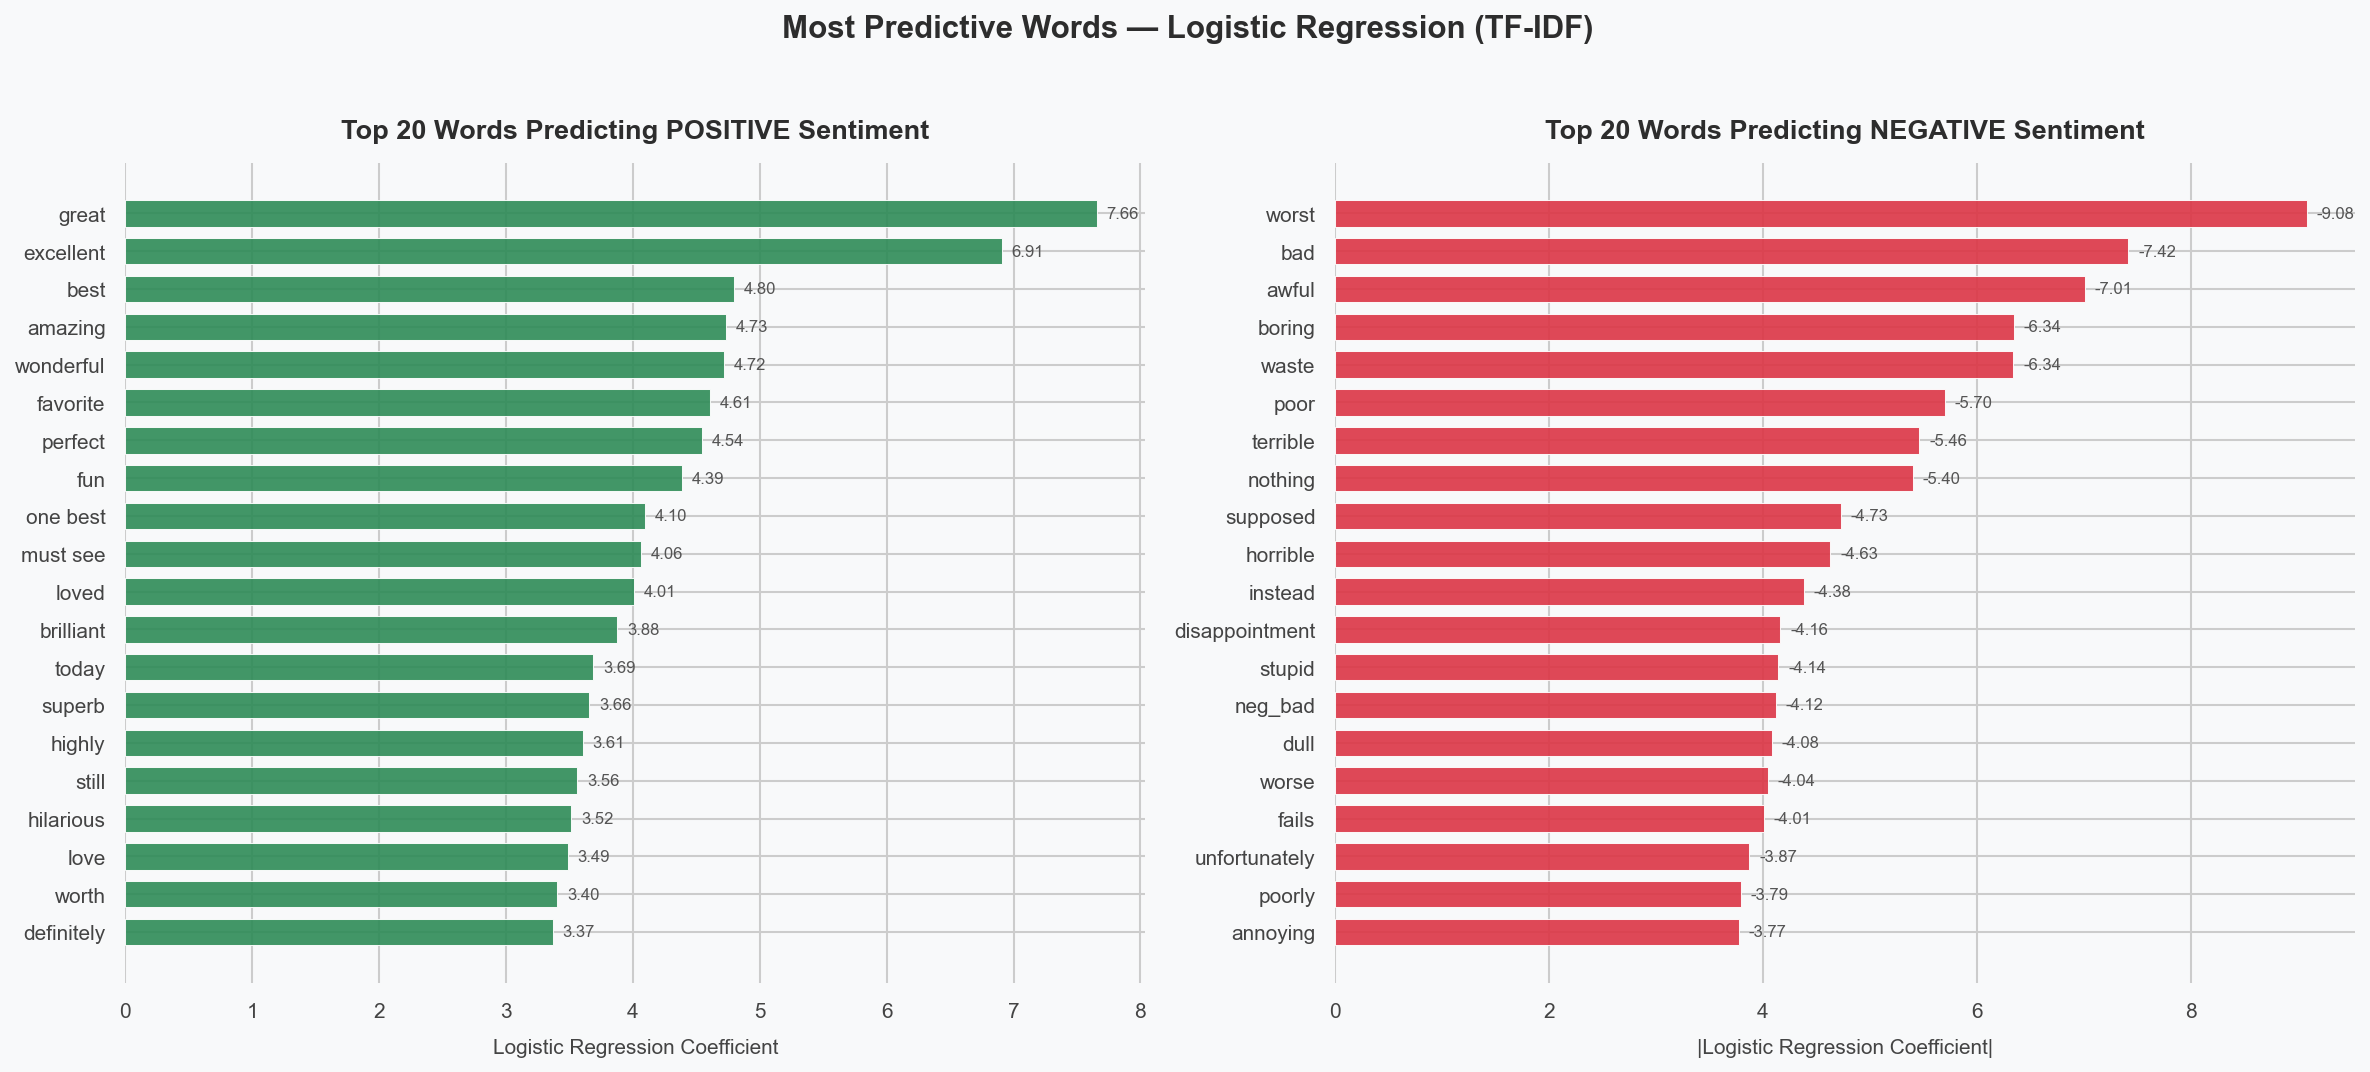
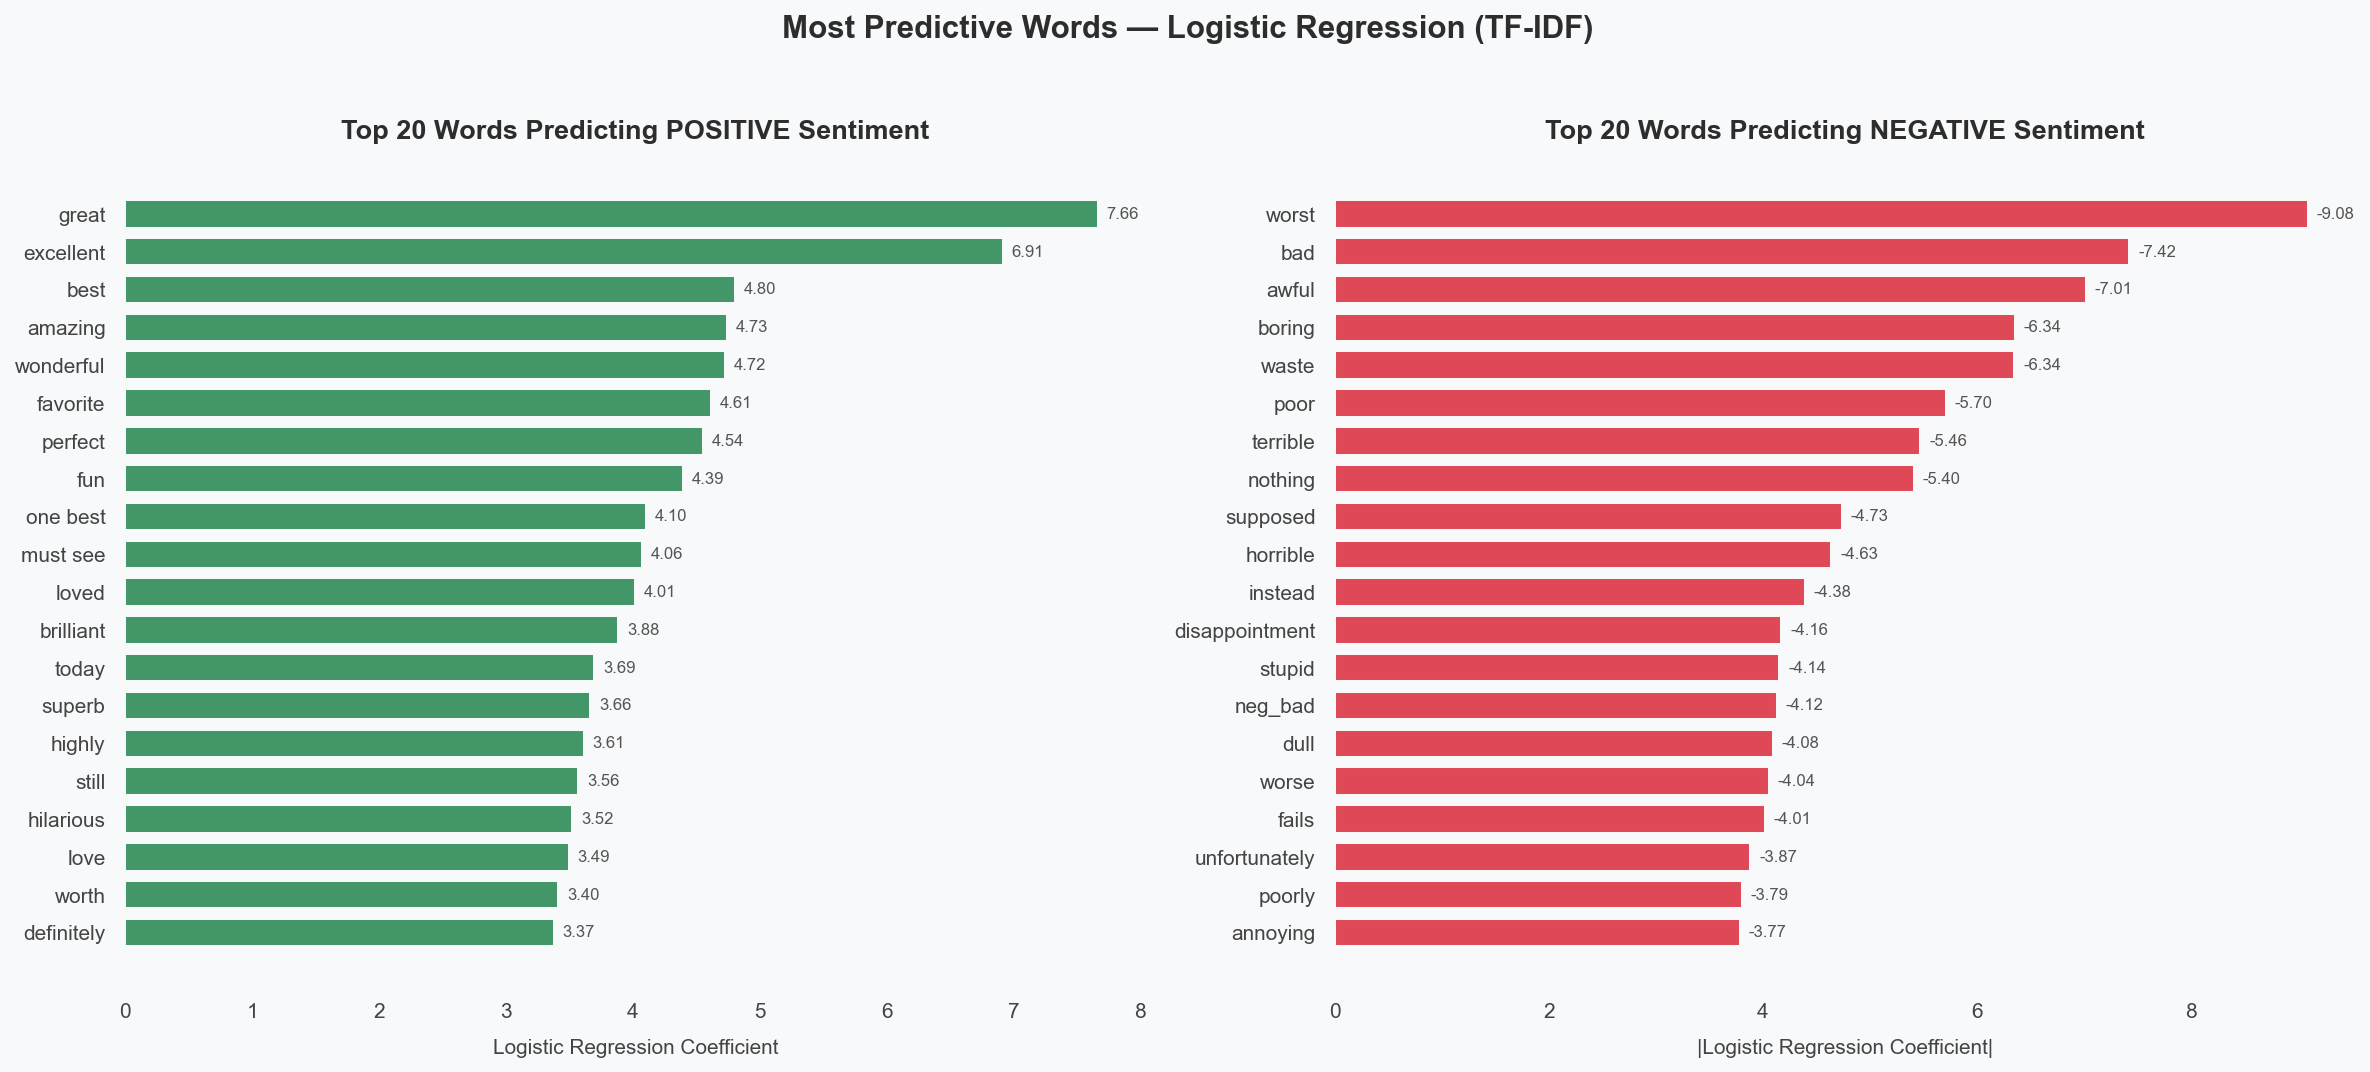
Update 04_modeling.py and regenerate outputs

diff --git a/scripts/04_modeling.py b/scripts/04_modeling.py
@@ -304,18 +304,15 @@ print("\n" + "=" * 60)
 print("  STEP 3 — VISUALIZATIONS")
 print("=" * 60)
 print("\n[1/4] Model comparison bar chart ...")
- 
 plot_df = results_df.copy()
 plot_df["label"] = plot_df.apply(
     lambda r: f"{r['model']}\n({r['vectorizer']})" if r["vectorizer"] != "—"
     else r["model"], axis=1,
 )
 plot_df = plot_df.sort_values("test_f1", ascending=True).reset_index(drop=True)
- 
 fig, ax = plt.subplots(figsize=(11, 6.5))
 fig.patch.set_facecolor(BG_COLOR)
 ax.set_facecolor(BG_COLOR)
- 
 colors = []
 for _, r in plot_df.iterrows():
     if r["vectorizer"] == "—":
@@ -324,13 +321,11 @@ for _, r in plot_df.iterrows():
         colors.append(COLOR_POS)        # green for winner
     else:
         colors.append(COLOR_NEUTRAL)    # blue for the rest
- 
 bars = ax.barh(plot_df["label"], plot_df["test_f1"],
                color=colors, alpha=0.9, edgecolor="white", linewidth=0.6, zorder=3)
 for bar, val in zip(bars, plot_df["test_f1"]):
     ax.text(val + 0.005, bar.get_y() + bar.get_height() / 2,
             f"{val:.3f}", va="center", ha="left", fontsize=10, color="#333333")
- 
 ax.set_title("Model Comparison — Test F1 Score",
              fontsize=15, fontweight="bold", color="#2D2D2D", pad=18)
 ax.set_xlabel("F1 Score (test set)", fontsize=12, color="#444444", labelpad=10)
@@ -338,8 +333,9 @@ ax.set_xlim(0, 1.05)
 ax.spines[["top", "right"]].set_visible(False)
 ax.spines[["left", "bottom"]].set_color("#CCCCCC")
 ax.tick_params(colors="#555555", labelsize=10)
-ax.grid(False)
- 
+ax.grid(False, which="both", axis="both")
+ax.xaxis.grid(False)
+ax.yaxis.grid(False)
 plt.tight_layout()
 out_path = FIGURES_DIR / "model_comparison_bars.png"
 plt.savefig(out_path, dpi=150, bbox_inches="tight")
@@ -438,31 +434,28 @@ print(f"   Saved: {out_path}")
 # 13. Visualization 4 — Top features (interpretability)
 # --------------------------------------------------------------------
 print("\n[4/4] Top features for Logistic Regression (interpretability) ...")
- 
+
 # Use Logistic Regression + its better vectorizer (chosen by test F1).
 lr_vec_name = model_best_vec["Logistic Regression"]
 lr_vec, lr_model = fitted_models[(lr_vec_name, "Logistic Regression")]
- 
 feature_names = np.array(lr_vec.get_feature_names_out())
 coefs = lr_model.coef_[0]
- 
 top_n = 20
 top_pos_idx = np.argsort(coefs)[-top_n:][::-1]
 top_neg_idx = np.argsort(coefs)[:top_n]
- 
 pos_words = feature_names[top_pos_idx]
 pos_coefs = coefs[top_pos_idx]
 neg_words = feature_names[top_neg_idx]
 neg_coefs = coefs[top_neg_idx]
- 
 fig, (ax1, ax2) = plt.subplots(1, 2, figsize=(16, 7))
 fig.patch.set_facecolor(BG_COLOR)
 for ax in (ax1, ax2):
     ax.set_facecolor(BG_COLOR)
     ax.spines[["top", "right", "left", "bottom"]].set_visible(False)
     ax.tick_params(axis="both", labelsize=10, colors="#444444")
-    ax.grid(False)
- 
+    ax.grid(False, which="both", axis="both")
+    ax.xaxis.grid(False)
+    ax.yaxis.grid(False)
 # Positive side
 bars1 = ax1.barh(pos_words, pos_coefs, color=COLOR_POS, alpha=0.9,
                  edgecolor="white", linewidth=0.5, height=0.7)
@@ -474,7 +467,6 @@ ax1.set_xlabel("Logistic Regression Coefficient",
 for bar, val in zip(bars1, pos_coefs):
     ax1.text(val + max(pos_coefs) * 0.01, bar.get_y() + bar.get_height() / 2,
              f"{val:.2f}", va="center", ha="left", fontsize=8, color="#555555")
- 
 # Negative side (plot absolute value so bars grow left-to-right visually)
 neg_abs = np.abs(neg_coefs)
 bars2 = ax2.barh(neg_words, neg_abs, color=COLOR_NEG, alpha=0.9,
@@ -487,7 +479,6 @@ ax2.set_xlabel("|Logistic Regression Coefficient|",
 for bar, val, raw in zip(bars2, neg_abs, neg_coefs):
     ax2.text(val + max(neg_abs) * 0.01, bar.get_y() + bar.get_height() / 2,
              f"{raw:.2f}", va="center", ha="left", fontsize=8, color="#555555")
- 
 plt.suptitle(f"Most Predictive Words — Logistic Regression ({lr_vec_name})",
              fontsize=15, fontweight="bold", color="#2D2D2D", y=1.02)
 plt.tight_layout()
@@ -495,7 +486,6 @@ out_path = FIGURES_DIR / "top_features_logreg.png"
 plt.savefig(out_path, dpi=150, bbox_inches="tight")
 plt.close(fig)
 print(f"   Saved: {out_path}")
- 
 # Also persist the top-features list as a CSV (useful for the website).
 top_features_df = pd.DataFrame({
     "rank": list(range(1, top_n + 1)),